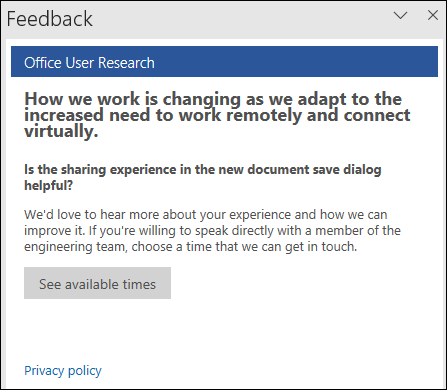
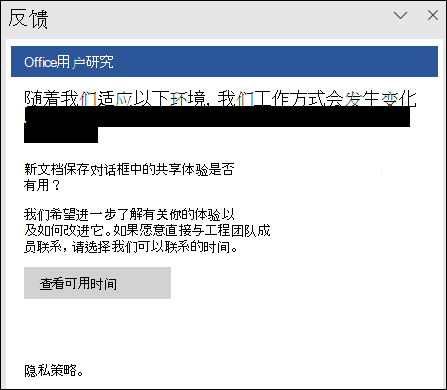
commit translated contents

diff --git a/microsoft-365/contentunderstanding/syntex-licensing.md b/microsoft-365/contentunderstanding/syntex-licensing.md
@@ -1,0 +1,65 @@
+---
+title: SharePoint Syntex 的许可
+ms.author: mikeplum
+author: MikePlumleyMSFT
+ms.reviewer: ssquires
+manager: serdars
+audience: admin
+ms.topic: article
+ms.prod: microsoft-365-enterprise
+ms.collection:
+- enabler-strategic
+- m365initiative-syntex
+search.appverid: MET150
+localization_priority: Priority
+description: 了解 SharePoint Syntex 的许可
+ms.openlocfilehash: 1ab7ab290ca00ba6b47510dfc43f18412b528b0c
+ms.sourcegitcommit: d08fe0282be75483608e96df4e6986d346e97180
+ms.translationtype: HT
+ms.contentlocale: zh-CN
+ms.lasthandoff: 09/12/2021
+ms.locfileid: "59195765"
+---
+# <a name="licensing-for-sharepoint-syntex"></a>SharePoint Syntex 的许可
+
+若要使用 SharePoint 整合，您的组织必须具有 SharePoint Syntex 订阅，并且每个 Syntex 用户必须具有许可证。 如果将来（或试用版过期）取消 SharePoint Syntex 订阅，用户将无法创建、发布或运行文档了解或表单处理模型。 此外，术语库报表、SKOS 分类导入和内容类型推送将不再可用。 将不会删除任何模型、内容或元数据，并且不会更改网站权限。
+ 
+## <a name="tasks-requiring-a-license"></a>需要许可证的任务
+ 
+以下任务需要执行此任务的用户的 SharePoint Syntex 许可证：
+ 
+- 将文档理解模型应用于库。（可以向未经授权的用户授予对内容中心的访问权限，并可在其中创建文档理解模型，但不能将其应用于文档库。）
+- 通过库中的入口点创建表单处理模型
+- 将内容上传到已应用文档理解或表单处理模型的库
+- 按需运行文档理解模型
+- 使用文档理解或表单处理模型查看从文件中提取的元数据。 （用户必须获得访问和使用与已处理文件关联的元数据的许可，无论文件移动到何处。）
+- 使用高级分类服务。 （高级分类服务包括基于 SKOS 的术语集导入、将企业内容类型推送到与中心关联的网站和术语库报表。）
+
+未经许可的用户可以被授予访问内容中心的权限，并可在其中创建文档理解模型，但无法将其应用于文档库。
+ 
+## <a name="cost-of-running-models"></a>运行模型的成本
+ 
+运行文档理解模型的成本包含在 SharePoint Syntex 许可证的成本中。 但是，表单处理模型使用 AI Builder 容量进行训练和运行时处理。 必须将容量分配给要在其中使用 AI 生成器的 Power Apps 环境。
+ 
+如果你的组织中的 SharePoint Syntex有300或更多SharePoint Syntex 许可证，则会分配一百万个 AI 生成器点数。 如果保持最低 300 个许可证，则每月会续订此容量。 （未使用的额度不会累积到下个月。）如果许可证少于 300 个，则必须购买 AI 生成器才能使用表单处理。
+ 
+可使用 [AI 生成器计算器](https://powerapps.microsoft.com/ai-builder-calculator)来估算出适合你的AI 生成器容量。
+
+如果计划使用自定义 Power Platform 环境，必须 [向该环境分配点数](/power-platform/admin/capacity-add-on)。
+
+转到 [Power Platform 管理中心](https://admin.powerplatform.microsoft.com/resources/capacity)，以查询点数和使用情况。
+  
+## <a name="additional-term-store-features"></a>其他术语库功能
+ 
+SharePoint Syntex 订阅具有以下附加术语库功能：
+ 
+- 基于 SKOS 的术语集导入
+- 将企业内容类型推送到中心网站，该网站还会将其添加到关联的网站以及任何新创建的列表或库
+- 术语库报表提供对已发布术语集及其在租户中的使用情况的见解
+
+
+## <a name="see-also"></a>另请参阅
+
+[Microsoft Power Platform 的许可概述](/power-platform/admin/pricing-billing-skus)
+
+[Power Apps 和 Power Automate 许可常见问题解答](/power-platform/admin/powerapps-flow-licensing-faq)

diff --git a/microsoft-365/contentunderstanding/set-up-content-understanding.md b/microsoft-365/contentunderstanding/set-up-content-understanding.md
@@ -10,26 +10,27 @@ ms.prod: microsoft-365-enterprise
 ms.collection:
 - enabler-strategic
 - m365initiative-syntex
+ms.custom: admindeeplinkMAC
 search.appverid: MET150
 localization_priority: Priority
 description: 设置 SharePoint Syntex
-ms.openlocfilehash: 3b03b36e58b9f5cbb97a967be941fc43285892fd
-ms.sourcegitcommit: c2d752718aedf958db6b403cc12b972ed1215c00
+ms.openlocfilehash: 2f77176e2bfd90b4f912379b3b2dcf15b62c7cf4
+ms.sourcegitcommit: d08fe0282be75483608e96df4e6986d346e97180
 ms.translationtype: HT
 ms.contentlocale: zh-CN
-ms.lasthandoff: 08/26/2021
-ms.locfileid: "58552884"
+ms.lasthandoff: 09/12/2021
+ms.locfileid: "59170616"
 ---
 # <a name="set-up-sharepoint-syntex"></a>设置 SharePoint Syntex
 
-管理员可使用 Microsoft 365 管理中心设置 [Microsoft SharePoint Syntex](index.md)。 
+管理员可使用 <a href="https://go.microsoft.com/fwlink/p/?linkid=2024339" target="_blank">Microsoft 365 管理中心</a> 设置 [Microsoft SharePoint Syntex](index.md)。 
 
 开始之前应考虑下列建议：
 
 - 要在哪些 SharePoint 网站中启用表单处理？ 全部、部分、还是选定的站点？
 - 你会如何为默认内容中心命名？
 
-可在 Microsoft 365 管理中心内的初始设置后更改你的设置。
+可在 <a href="https://go.microsoft.com/fwlink/p/?linkid=2024339" target="_blank">Microsoft 365 管理中心</a> 内的初始设置后更改你的设置。
 
 设置之前，请确保规划在环境中设置和配置内容了解的最佳方式。例如，你需要做出以下决策：
 
@@ -41,7 +42,7 @@ ms.locfileid: "58552884"
 > [!NOTE]
 > 必须拥有全局管理员或 SharePoint 管理员权限，才能访问 Microsoft 365 管理中心并设置 SharePoint Syntex。
 
-作为管理员，你还可在设置后随时对所选择的设置进行更改，并在整个 Microsoft 365 管理中心中的内容理解管理中设置。
+作为管理员，你还可在设置后随时随时更改所选设置，并更改 <a href="https://go.microsoft.com/fwlink/p/?linkid=2024339" target="_blank">Microsoft 365 管理中心</a> 中的内容理解管理设置。
 
 如果计划使用自定义 Power Platform 环境，必须 [在此环境中安装 *用于 Project Cortex 的 AI 生成器* 应用](/power-platform/admin/manage-apps#install-an-app-in-the-environment-view)，以及向其 [分配 AI 生成器点数](/power-platform/admin/capacity-add-on)，然后才能创建表单处理模型。
 
@@ -55,9 +56,11 @@ ms.locfileid: "58552884"
 
 若要使用表单处理，还需要 AI Builder 额度。 如果你有 300 个或更多许可用户，则每月会分配 AI 生成器额度。
 
+有关 SharePoint Syntex 许可的详细信息，请参阅 [SharePoint Syntex 许可](syntex-licensing.md)
+
 ## <a name="to-set-up-sharepoint-syntex"></a>对设置 SharePoint Syntex
 
-1. 在 Microsoft 365 管理中心中，选择“**设置**”，然后查看“**文件和内容**”部分。
+1. 在 Microsoft 365 管理中心中，选择“<a href="https://go.microsoft.com/fwlink/p/?linkid=2171997" target="_blank">**设置**</a>”，然后查看 **文件和内容** 部分。
 
 2. 在“**文件和内容**”部分中，选择“**自动内容理解**”。 请注意，当前 AI 生成器点数可用性在“**概览**”部分中显示。<br/>
 
@@ -112,7 +115,7 @@ ms.locfileid: "58552884"
 
 以分配许可证：
 
-1. 在Microsoft 365 管理中心中，在 **用户** 下，点击 **活动用户**。
+1. 在 Microsoft 365 管理中心中，在 **用户** 下面，点击“<a href="https://go.microsoft.com/fwlink/p/?linkid=834822" target="_blank">**活动用户**</a>”。
 
 2. 选择要给予许可的用户，然后选择“**管理产品许可证**”。
 

diff --git a/microsoft-365/compliance/sensitivity-labels-teams-groups-sites.md b/microsoft-365/compliance/sensitivity-labels-teams-groups-sites.md
@@ -17,12 +17,12 @@ search.appverid:
 - MOE150
 - MET150
 description: 使用敏感度标签保护 SharePoint 和 Microsoft Teams 网站以及 Microsoft 365 组中的内容。
-ms.openlocfilehash: edd6aea4aade2378a195aa471ba0aa329afb7582
-ms.sourcegitcommit: c2d752718aedf958db6b403cc12b972ed1215c00
+ms.openlocfilehash: 5480a5b8336c03323c26785e884da811a5d00d97
+ms.sourcegitcommit: d08fe0282be75483608e96df4e6986d346e97180
 ms.translationtype: HT
 ms.contentlocale: zh-CN
-ms.lasthandoff: 08/26/2021
-ms.locfileid: "58569029"
+ms.lasthandoff: 09/12/2021
+ms.locfileid: "59196897"
 ---
 # <a name="use-sensitivity-labels-to-protect-content-in-microsoft-teams-microsoft-365-groups-and-sharepoint-sites"></a>使用敏感度标签保护 Microsoft Teams、Microsoft 365 组和 SharePoint 网站中的内容
 
@@ -315,9 +315,11 @@ ms.locfileid: "58569029"
 
 2. 选择“**策略**”选项卡，然后为“**敏感度**”设置选择“**编辑**”。
 
-3. 从“**编辑敏感度设置**”窗格中，选择要应用于该网站的敏感度标签，然后选择“**保存**”。
+3. 从“**编辑敏感度设置**”窗格中，选择要应用于该网站的敏感度标签。 与可向特定用户分配敏感度标签的用户应用不同，管理中心显示租户的所有敏感度标签。 选择标签后，选择“**保存**”。
 
-## <a name="support-for-sensitivity-labels"></a>敏感度标签支持
+## <a name="support-for-sensitivity-labels"></a>对于敏感度标签的支持
+
+使用支持敏感度标签的管理中心时，可看到租户的所有敏感度标签。 相比之下，根据发布策略筛选敏感度标签的用户应用和服务可以导致你看到这些标签的子集。
 
 以下应用和服务支持为网站和组设置配置的敏感度标签：
 
@@ -326,7 +328,7 @@ ms.locfileid: "58569029"
   - SharePoint 管理中心
   - Azure Active Directory 高级版
   - Microsoft 365 管理中心
-  - Microsoft 365 合规中心、Microsoft 365 安全中心、安全与合规中心
+  - Microsoft 365 合规中心
 
 - 用户应用和服务：
 
@@ -450,6 +452,6 @@ Set-SPOTenant -BlockSendLabelMismatchEmail $True
 
 如需有关[通过 Microsoft Teams、O365 组和 SharePoint Online 网站使用敏感度标签](https://techcommunity.microsoft.com/t5/security-privacy-and-compliance/using-sensitivity-labels-with-microsoft-teams-o365-groups-and/ba-p/1221885#M1380)的信息，请参阅网络研讨会的记录和回答的问题。
 
-有关管理 Teams 连接站点和频道网站的详细信息，请参阅 [管理 Teams 连接站点和频道网站](/SharePoint/teams-connected-sites)。
-
 在录制此网络研讨会时该功能仍处于预览阶段，因此你可能会发现 UI 存在某些差异。 但是，此功能的信息仍准确无误，并且该页面记录了所有新功能。
+
+有关管理 Teams 连接站点和频道网站的详细信息，请参阅 [管理 Teams 连接站点和频道网站](/SharePoint/teams-connected-sites)。

diff --git a/microsoft-365/compliance/importing-pst-files-to-office-365.md b/microsoft-365/compliance/importing-pst-files-to-office-365.md
@@ -19,20 +19,21 @@ search.appverid: MET150
 ms.assetid: ba688e0a-0fcb-4bd7-8e57-2b669564ea84
 ms.custom:
 - seo-marvel-apr2020
+- admindeeplinkMAC
 description: 了解如何使用 Microsoft 365 合规中心的导入服务将电子邮件数据（PST 文件）批量导入到用户邮箱中。
-ms.openlocfilehash: d885fbcf6f4b94ec7b1716c53f6d1fa541994434
-ms.sourcegitcommit: c2d752718aedf958db6b403cc12b972ed1215c00
+ms.openlocfilehash: efb51aebcca5d724b8a1f8ecaabb6eeb5f31e8dd
+ms.sourcegitcommit: d08fe0282be75483608e96df4e6986d346e97180
 ms.translationtype: HT
 ms.contentlocale: zh-CN
-ms.lasthandoff: 08/26/2021
-ms.locfileid: "58574179"
+ms.lasthandoff: 09/12/2021
+ms.locfileid: "59169635"
 ---
 # <a name="overview-of-importing-your-organizations-pst-files"></a>有关导入组织的 PST 文件的概述
 
 > [!NOTE]
 > 本文适用于管理员。 你正在尝试将 PST 文件导入到自己的邮箱吗？ 请参阅[从 Outlook .pst 文件导入电子邮件、联系人和日历](https://go.microsoft.com/fwlink/p/?LinkID=785075)。
 
-可以使用 Microsoft 365 合规中心的导入服务将 PST 文件快速批量导入到组织中的 Exchange Online 邮箱中。可以通过两种方式将 PST 文件导入到 Office 365：
+可以使用 <a href="https://go.microsoft.com/fwlink/p/?linkid=2077149" target="_blank">Microsoft 365 合规中心</a> 的导入服务将 PST 文件快速批量导入到组织的 Exchange Online 邮箱中。可以通过两种方式将 PST 文件导入到 Office 365：
 
 - **网络上传** ![云上传。](../media/54ab16ee-3822-4551-abef-3d926f4e1c01.png) –通过网络将 PST 文件上传到 Microsoft 云中的临时 Azure 存储位置。 然后，使用 Office 365 导入服务将 PST 数据导入到组织的邮箱中。
 
@@ -152,7 +153,7 @@ ms.locfileid: "58574179"
 
 Using network upload to import PST files is free.
 
-这也意味着 PST 文件从 Azure 存储区域删除后，将不再显示在 Microsoft 365 管理中心已完成导入作业的文件列表中。 虽然导入作业可能仍然列在“**将数据导入到 Office 365**”页面，但查看较早导入作业的详细信息时，PST 文件的列表可能为空。
+这也意味着在将 PST 文件从 Azure 存储区域删除后，将不再显示在 [Microsoft 365 管理中心](https://go.microsoft.com/fwlink/p/?linkid=2024339) 内已完成导入作业的文件列表中。 虽然导入作业可能仍然列在“**将数据导入到 Office 365**”页面，但查看较早导入作业的详细信息时，PST 文件的列表可能为空。
 
 #### <a name="what-version-of-the-pst-file-format-is-supported-for-importing-to-office-365"></a>What version of the PST file format is supported for importing to Office 365?
 

diff --git a/microsoft-365/solutions/empower-people-to-work-remotely.md b/microsoft-365/solutions/empower-people-to-work-remotely.md
@@ -19,12 +19,12 @@ ms.collection:
 ms.custom: seo-marvel-jun2020
 keywords: 在家办公，在家办公，混合，远程工作者，混合办公，远程员工，混合连接，远程访问，远程办公，远程办公，远程办公，移动办公，远程工作，随时随地开展工作，灵活的工作场所
 description: 逐步设置基础结构层，以便远程工作者能够安全访问本地和 Microsoft 365 资源。
-ms.openlocfilehash: 4ca2d190643b7d2bf557fcf87b4319ba4e3adc99
-ms.sourcegitcommit: c2d752718aedf958db6b403cc12b972ed1215c00
+ms.openlocfilehash: 2bc5a4f1f6c6784413b716ce752855393bfed90f
+ms.sourcegitcommit: d08fe0282be75483608e96df4e6986d346e97180
 ms.translationtype: HT
 ms.contentlocale: zh-CN
-ms.lasthandoff: 08/26/2021
-ms.locfileid: "58566462"
+ms.lasthandoff: 09/12/2021
+ms.locfileid: "59170428"
 ---
 # <a name="set-up-your-infrastructure-for-hybrid-work-with-microsoft-365"></a>设置使用 Microsoft 365 实现混合工作的基础结构
 
@@ -86,7 +86,7 @@ Microsoft 365 具有助力混合工作者现场或远程工作的功能。
 |---|---|---|
 |通过安全性默认设置强制执行 MFA|通过请求第二种形式的登录身份验证，抵御遭到入侵的身份和设备的威胁。安全性默认设置要求对所有用户帐户进行 MFA。|Microsoft 365 E3 或 E5|
 |通过条件访问强制执行 MFA|要求基于使用条件访问策略的登录的属性进行 MFA。|Microsoft 365 E3 或 E5|
-|通过基于风险的条件访问强制执行 MFA|需要基于使用 Microsoft Defender for Identity 的用户登录的风险进行 MFA。|Microsoft 365 E5 或 E3（含 Azure AD Premium P2 许可）|
+|通过基于风险的条件访问强制执行 MFA|基于使用 Azure AD 标识保护的用户登录风险要求使用 MFA。|Microsoft 365 E5 或 E3（含 Azure AD Premium P2 许可）|
 |自助服务密码重置 (SSPR)|允许用户重置或解锁其密码或帐户。|Microsoft 365 E3 或 E5|
 |Azure AD 应用程序代理|为 Intranet 服务器上托管的基于 Web 的应用程序提供安全的远程访问权限。|需要单独的付费 Azure 订阅|
 |配置点到站点 VPN|通过 Azure 虚拟网络创建从远程工作者的设备到 intranet 的安全连接。|需要单独的付费 Azure 订阅|

diff --git a/microsoft-365/commerce/enter-your-product-key.md b/microsoft-365/commerce/enter-your-product-key.md
@@ -20,14 +20,14 @@ ms.custom:
 - AdminSurgePortfolio
 - commerce_purchase
 - AdminTemplateSet
-description: 如果你从零Microsoft 365 商业标准版购买产品密钥，请了解如何兑换产品密钥并激活你的订阅。
+description: 如果从零售商店购买了 Microsoft 365 商业标准版，请了解如何兑换产品密钥和激活订阅。
 ms.date: 11/13/2020
 ms.openlocfilehash: 5c9a1bba30f6c1b55688d2a36166651fe0b16a05
-ms.sourcegitcommit: f2381c3bb3351235aaca977c57a46c654b9b0657
-ms.translationtype: MT
+ms.sourcegitcommit: d08fe0282be75483608e96df4e6986d346e97180
+ms.translationtype: HT
 ms.contentlocale: zh-CN
-ms.lasthandoff: 08/18/2021
-ms.locfileid: "58387028"
+ms.lasthandoff: 09/12/2021
+ms.locfileid: "59171142"
 ---
 # <a name="enter-your-product-key-for-microsoft-365-business-standard"></a>输入 Microsoft 365 商业版标准版的产品密钥
 
@@ -60,7 +60,7 @@ ms.locfileid: "58387028"
 
 ## <a name="next-steps"></a>后续步骤
 
-如果你没有使用 Microsoft 365 商业版，请了解如何 [Microsoft 365 商业](../admin/setup/setup.md)。
+如果未曾使用过 Microsoft 365 商业版，请了解如何 [设置 Microsoft 365](../admin/setup/setup.md)。
 
 请查看此列表中的常见错误和解决方案： [365 商业版产品密钥有问题？](product-key-errors-and-solutions.md)
   
@@ -68,6 +68,6 @@ ms.locfileid: "58387028"
 
 ## <a name="related-content"></a>相关内容
 
-[升级到其他计划 (](./subscriptions/upgrade-to-different-plan.md) 文章) \
-[Microsoft 365 for Business 订阅结束后对我的数据和访问有何影响？](./subscriptions/what-if-my-subscription-expires.md) （文章）\
-[了解适用于企业Microsoft 365中的](./licenses/subscriptions-and-licenses.md)订阅 (许可证) 
+[升级到其他计划](./subscriptions/upgrade-to-different-plan.md)（文章）\
+[Microsoft 365 商业版订阅结束后对我的数据和访问权限有何影响？](./subscriptions/what-if-my-subscription-expires.md) （文章）\
+[了解 Microsoft 365 商业版中的订阅和许可证](./licenses/subscriptions-and-licenses.md)（文章）

diff --git a/microsoft-365/solutions/microsoft-365-limit-sharing.md b/microsoft-365/solutions/microsoft-365-limit-sharing.md
@@ -16,16 +16,16 @@ search.appverid:
 - SPO160
 - MET150
 f1.keywords: NOCSH
-ms.custom: ''
+ms.custom: admindeeplinkMAC
 localization_priority: Priority
 recommendations: false
 description: 了解在 Microsoft 365 中用于限制或禁用共享的选项。
-ms.openlocfilehash: ba7bd7796e0c70b91f7f1c5073e8f51cd5d778be
-ms.sourcegitcommit: c2d752718aedf958db6b403cc12b972ed1215c00
+ms.openlocfilehash: 3a8bdc738507760fcb7eff02692859f07dc8d5c9
+ms.sourcegitcommit: d08fe0282be75483608e96df4e6986d346e97180
 ms.translationtype: HT
 ms.contentlocale: zh-CN
-ms.lasthandoff: 08/26/2021
-ms.locfileid: "58569269"
+ms.lasthandoff: 09/12/2021
+ms.locfileid: "59170873"
 ---
 # <a name="limit-sharing-in-microsoft-365"></a>限制 Microsoft 365 中的共享
 
@@ -59,15 +59,15 @@ ms.locfileid: "58569269"
 如果想要阻止 Teams 中的来宾访问，可在 Teams 管理中心内关闭来宾共享。
 
 关闭 Teams 的来宾共享
-1. 在 Teams 管理中心中，展开“**组织范围的设置**”，然后单击“**来宾访问**”。
+1. 在 <a href="https://go.microsoft.com/fwlink/p/?linkid=2066851" target="_blank">Teams 管理中心</a> 中，展开“**组织范围的设置**”，然后单击“**来宾访问**”。
 2. 关闭“**在 Teams 中允许访客访问**”。
 3. 单击“**保存**”。
 
 若要阻止 Microsoft 365 组中的来宾访问，可以在 Microsoft 365 管理中心内禁用组来宾访问设置。
 
 禁用 Microsoft 365 组中的来宾共享的具体步骤
-1. 在 Microsoft 365 管理中心，单击“**设置**”，然后单击“**组织设置**”。
-2. 在“服务”选项卡上，单击“Microsoft 365 组”。
+1. 在 Microsoft 365 管理中心中，单击“**设置**” > “**组织设置**” > <a href="https://go.microsoft.com/fwlink/p/?linkid=2053743" target="_blank">“**服务**”选项卡</a>。
+2. 单击“**Microsoft 365 组**”。
 3. 取消选中“**允许组织外部的组成员访问组内容**”和“**允许组所有者将组织外部的人员添加到组**”复选框。
 4. 单击“**保存更改**”。
 

diff --git a/microsoft-365/compliance/disposition.md b/microsoft-365/compliance/disposition.md
@@ -12,16 +12,17 @@ ms.service: O365-seccomp
 localization_priority: Priority
 ms.collection:
 - M365-security-compliance
+ms.custom: admindeeplinkMAC
 search.appverid:
 - MOE150
 - MET150
 description: 监控和管理当你使用处置评审时或者根据配置的设置自动删除标记为记录的项目时的内容处置。
-ms.openlocfilehash: b949b712721acc7921d3c6ac25a07c14338d7609
-ms.sourcegitcommit: c2d752718aedf958db6b403cc12b972ed1215c00
+ms.openlocfilehash: a905847da3a6c28d8d24d13adb193423b57d83d1
+ms.sourcegitcommit: d08fe0282be75483608e96df4e6986d346e97180
 ms.translationtype: HT
 ms.contentlocale: zh-CN
-ms.lasthandoff: 08/26/2021
-ms.locfileid: "58567936"
+ms.lasthandoff: 09/12/2021
+ms.locfileid: "59175621"
 ---
 # <a name="disposition-of-content"></a>内容的处置
 
@@ -57,7 +58,7 @@ ms.locfileid: "58567936"
 
 - 处于预览阶段：默认情况下，访问“**处置**”页面的每个人只能看到分配给他们进行审阅的项目。 为使记录管理管理员能够查看分配给所有用户的所有项目以及配置用于处置评审的所有保留标签：导航到“**记录管理设置**” > “**常规**” > “**记录管理员安全组**”，选择并启用包含管理员帐户的已启用邮件的安全组。
     
-    未启用邮件的 Microsoft 365 组和安全组不支持此功能，也不会显示在列表中供选择。 如果需要创建新的启用邮件的安全组，请使用 Microsoft 365 管理中心的链接创建新组。 
+    未启用邮件的 Microsoft 365 组和安全组不支持此功能，也不会显示在列表中供选择。 如果需要创建新的启用邮件的安全组，请使用指向 <a href="https://go.microsoft.com/fwlink/p/?linkid=2024339" target="_blank">Microsoft 365 管理中心</a> 的链接创建新组。 
     
     > [!IMPORTANT]
     > 启用组后，你无法在合规中心更改组。 请参阅下一部分，了解如何使用 PowerShell 启用其他组。

diff --git a/microsoft-365/solutions/microsoft-365-guest-settings.md b/microsoft-365/solutions/microsoft-365-guest-settings.md
@@ -18,12 +18,12 @@ ms.custom:
 localization_priority: Priority
 recommendations: false
 description: 了解 Microsoft 365 中可影响与组织外部人员的共享的来宾共享设置。
-ms.openlocfilehash: 056152e44dbe2fc11265e64c548b1056fd72e517
-ms.sourcegitcommit: c2d752718aedf958db6b403cc12b972ed1215c00
+ms.openlocfilehash: db7622da1094dd1abf69752c6a0c41c374e80e9f
+ms.sourcegitcommit: d08fe0282be75483608e96df4e6986d346e97180
 ms.translationtype: HT
 ms.contentlocale: zh-CN
-ms.lasthandoff: 08/26/2021
-ms.locfileid: "58573819"
+ms.lasthandoff: 09/12/2021
+ms.locfileid: "59161633"
 ---
 # <a name="microsoft-365-guest-sharing-settings-reference"></a>Microsoft 365 来宾共享设置参考
 
@@ -61,7 +61,7 @@ Microsoft 365 管理中心具有用于共享和 Microsoft 365 组的组织级别
 
 ### <a name="sharing"></a>共享
 
-**导航：**[Microsoft 365 管理中心](https://admin.microsoft.com) > 设置 > 组织设置 >“安全和隐私”选项卡 > 共享
+**导航：** [Microsoft 365 管理中心](https://admin.microsoft.com) > **设置** > **组织设置** > <a href="https://go.microsoft.com/fwlink/p/?linkid=2072756" target="_blank">**安全性和隐私** 选项卡</a> > **共享**。
 
 ![Microsoft 365 管理中心中的安全和隐私来宾共享设置的屏幕截图。](../media/sharepoint-security-privacy-sharing-setting.png)
 
@@ -71,7 +71,7 @@ Microsoft 365 管理中心具有用于共享和 Microsoft 365 组的组织级别
 
 ### <a name="microsoft-365-groups"></a>Microsoft 365 组
 
-**导航：**[Microsoft 365 管理中心](https://admin.microsoft.com) > 设置 > 设置 > Microsoft 365 组
+**导航：** [Microsoft 365 管理中心](https://admin.microsoft.com) > **设置** > **组织设置** > Microsoft 365 组
 
 ![Microsoft 365 管理中心中的 Microsoft 365 组来宾设置的屏幕截图。](../media/office-365-groups-guest-settings.png)
 
